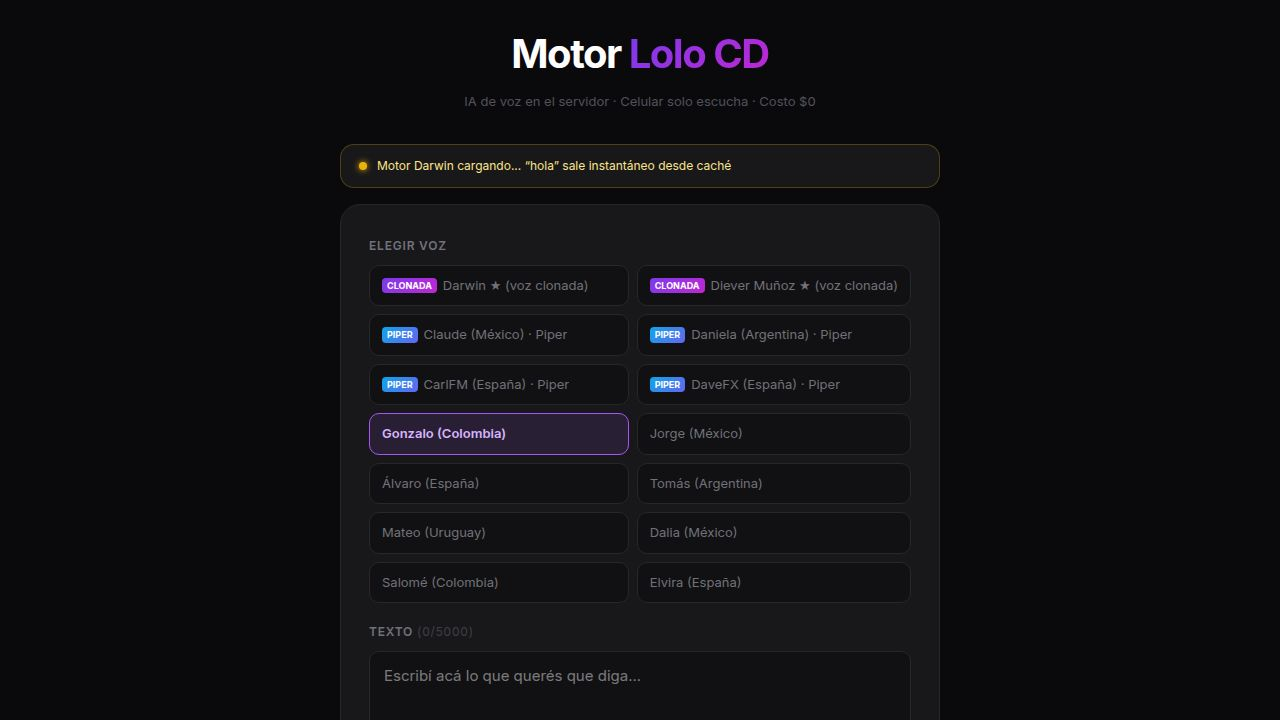
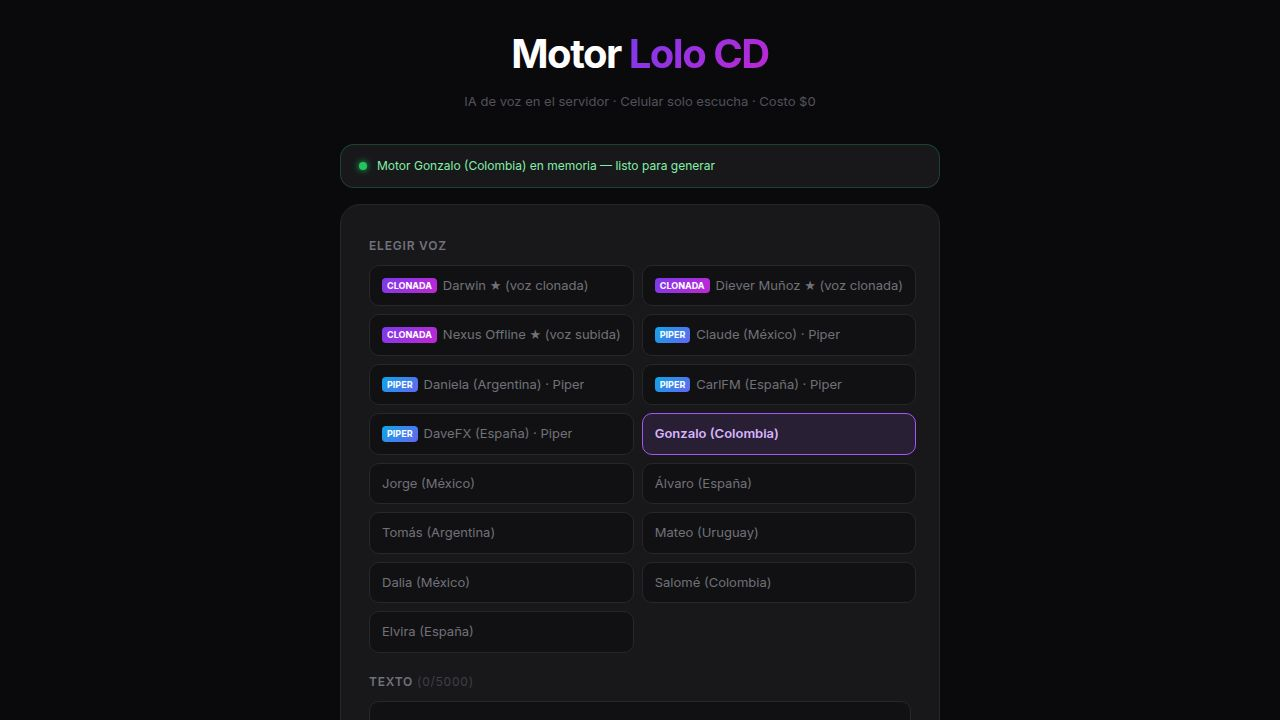
Add a new cloned voice using uploaded audio and improve warm-up caching
Integrates a new "Nexus Offline" cloned voice using provided WAV audio, updates the TTS service to include this voice in warm-up caching, and modifies the UI to display a generic "cloned voice" status.

Replit-Commit-Author: Agent
Replit-Commit-Session-Id: 67cbbc44-8534-4215-b51e-76001a683b34
Replit-Commit-Checkpoint-Type: full_checkpoint
Replit-Commit-Event-Id: 91e020d2-e5ab-4c31-bac5-0a3bcba00414
Replit-Commit-Screenshot-Url: https://storage.googleapis.com/screenshot-production-us-central1/a99d28d8-ff06-4bbd-8215-1cc00a88d137/67cbbc44-8534-4215-b51e-76001a683b34/YkgML0N
Replit-Helium-Checkpoint-Created: true

diff --git a/artifacts/api-server/src/routes/tts.ts b/artifacts/api-server/src/routes/tts.ts
@@ -8,6 +8,7 @@ const ttsRouter = Router();
 
 const TTS_SERVICE   = "http://127.0.0.1:5000";
 const DIEVER_REF    = "/home/runner/workspace/diever_referencia.wav";
+const NEXUS_REF     = "/home/runner/workspace/attached_assets/NEXUS_VOZ_OFFLINE_1776028665996.onnx";
 const DAEMON_SCRIPT = "/home/runner/workspace/xtts_daemon.py";
 
 // ── Caché en disco persistente (sobrevive reinicios) ──────────────────────────
@@ -158,14 +159,19 @@ function askDaemon(texto: string, refAudio: string): Promise<Buffer> {
 
 function scheduleWarmup() {
   (async () => {
-    console.log("[TTS] Precalentando caché Darwin/Diever en background...");
+    console.log("[TTS] Precalentando caché Darwin/Diever/Nexus en background...");
     let hit = 0, miss = 0;
-    for (const voiceId of ["darwin", "diever"]) {
+    const clonedWarmups = [
+      ["darwin", DIEVER_REF],
+      ["diever", DIEVER_REF],
+      ["nexus", NEXUS_REF],
+    ] as const;
+    for (const [voiceId, refAudio] of clonedWarmups) {
       for (const frase of WARMUP_PHRASES) {
         const key = cacheKey(frase, voiceId);
         if (cacheGet(key)) { hit++; continue; }
         try {
-          const audio = await askDaemon(frase, DIEVER_REF);
+          const audio = await askDaemon(frase, refAudio);
           cacheSet(key, audio);
           miss++;
           console.log(`[TTS] Warmup ${voiceId}: "${frase.slice(0, 45)}"`);
@@ -183,10 +189,11 @@ startDaemon();
 // ── Voces ─────────────────────────────────────────────────────────────────────
 const VOICES: Record<string, {
   name: string; voice?: string; pitch?: string; rate?: string;
-  cloned?: boolean; piper?: string;
+  cloned?: boolean; piper?: string; refAudio?: string;
 }> = {
   "darwin":      { name: "Darwin ★ (voz clonada)",       cloned: true },
   "diever":      { name: "Diever Muñoz ★ (voz clonada)", cloned: true },
+  "nexus":       { name: "Nexus Offline ★ (voz subida)", cloned: true, refAudio: NEXUS_REF },
   "claude-mx":   { name: "Claude (México) · Piper",      piper: "claude-mx"  },
   "daniela-ar":  { name: "Daniela (Argentina) · Piper",  piper: "daniela-ar" },
   "carlfm-es":   { name: "CarlFM (España) · Piper",      piper: "carlfm-es"  },
@@ -240,7 +247,7 @@ ttsRouter.post("/tts/generate", async (req, res) => {
       return;
     }
     try {
-      const audio = await askDaemon(text, DIEVER_REF);
+      const audio = await askDaemon(text, voz.refAudio ?? DIEVER_REF);
       cacheSet(key, audio);
       res.setHeader("Content-Type", "audio/wav");
       res.setHeader("X-Cache", "MISS");

diff --git a/artifacts/lolo-cd/src/App.tsx b/artifacts/lolo-cd/src/App.tsx
@@ -18,6 +18,7 @@ export default function App() {
 
   const selectedVoice = voices.find((v) => v.id === voiceId);
   const isCloned = selectedVoice?.cloned ?? false;
+  const clonedVoiceLabel = selectedVoice?.name.split("★")[0].trim() || "voz clonada";
   const normalizedText = texto
     .trim()
     .toLowerCase()
@@ -90,7 +91,7 @@ export default function App() {
         <div style={{ marginBottom: 16, background: "#18181b", borderRadius: 14, padding: "12px 18px", border: `1px solid ${daemonReady ? "rgba(34,197,94,0.25)" : "rgba(234,179,8,0.25)"}`, display: "flex", alignItems: "center", gap: 10 }}>
           <span style={{ width: 8, height: 8, borderRadius: "50%", flexShrink: 0, background: daemonReady ? "#22c55e" : "#eab308", boxShadow: daemonReady ? "0 0 6px #22c55e" : "0 0 6px #eab308" }} />
           <span style={{ fontSize: 12, color: daemonReady ? "#86efac" : "#fde68a" }}>
-            {daemonReady ? "Motor Darwin en memoria — listo para generar" : "Motor Darwin cargando... “hola” sale instantáneo desde caché"}
+            {daemonReady ? `Motor ${clonedVoiceLabel} en memoria — listo para generar` : "Motor de voz clonada cargando... las frases cacheadas salen instantáneas"}
           </span>
         </div>
 

diff --git a/replit.md b/replit.md
@@ -31,4 +31,5 @@ See the `pnpm-workspace` skill for workspace structure, TypeScript setup, and pa
 - Local voice service combines Edge TTS, Piper, and XTTS cloned voice generation.
 - Piper voices currently registered: Claude MX, Daniela AR, CarlFM ES, and DaveFX ES.
 - The cloned voice is exposed as Darwin, with Diever kept as a backwards-compatible alias.
+- The uploaded `NEXUS_VOZ_OFFLINE_1776028665996.onnx` asset is actually WAV audio data and is used as a cloned reference voice named Nexus Offline, not as a Piper model.
 - Darwin's “Hola.” is normalized and served from persistent disk cache so it stays instant across server restarts.